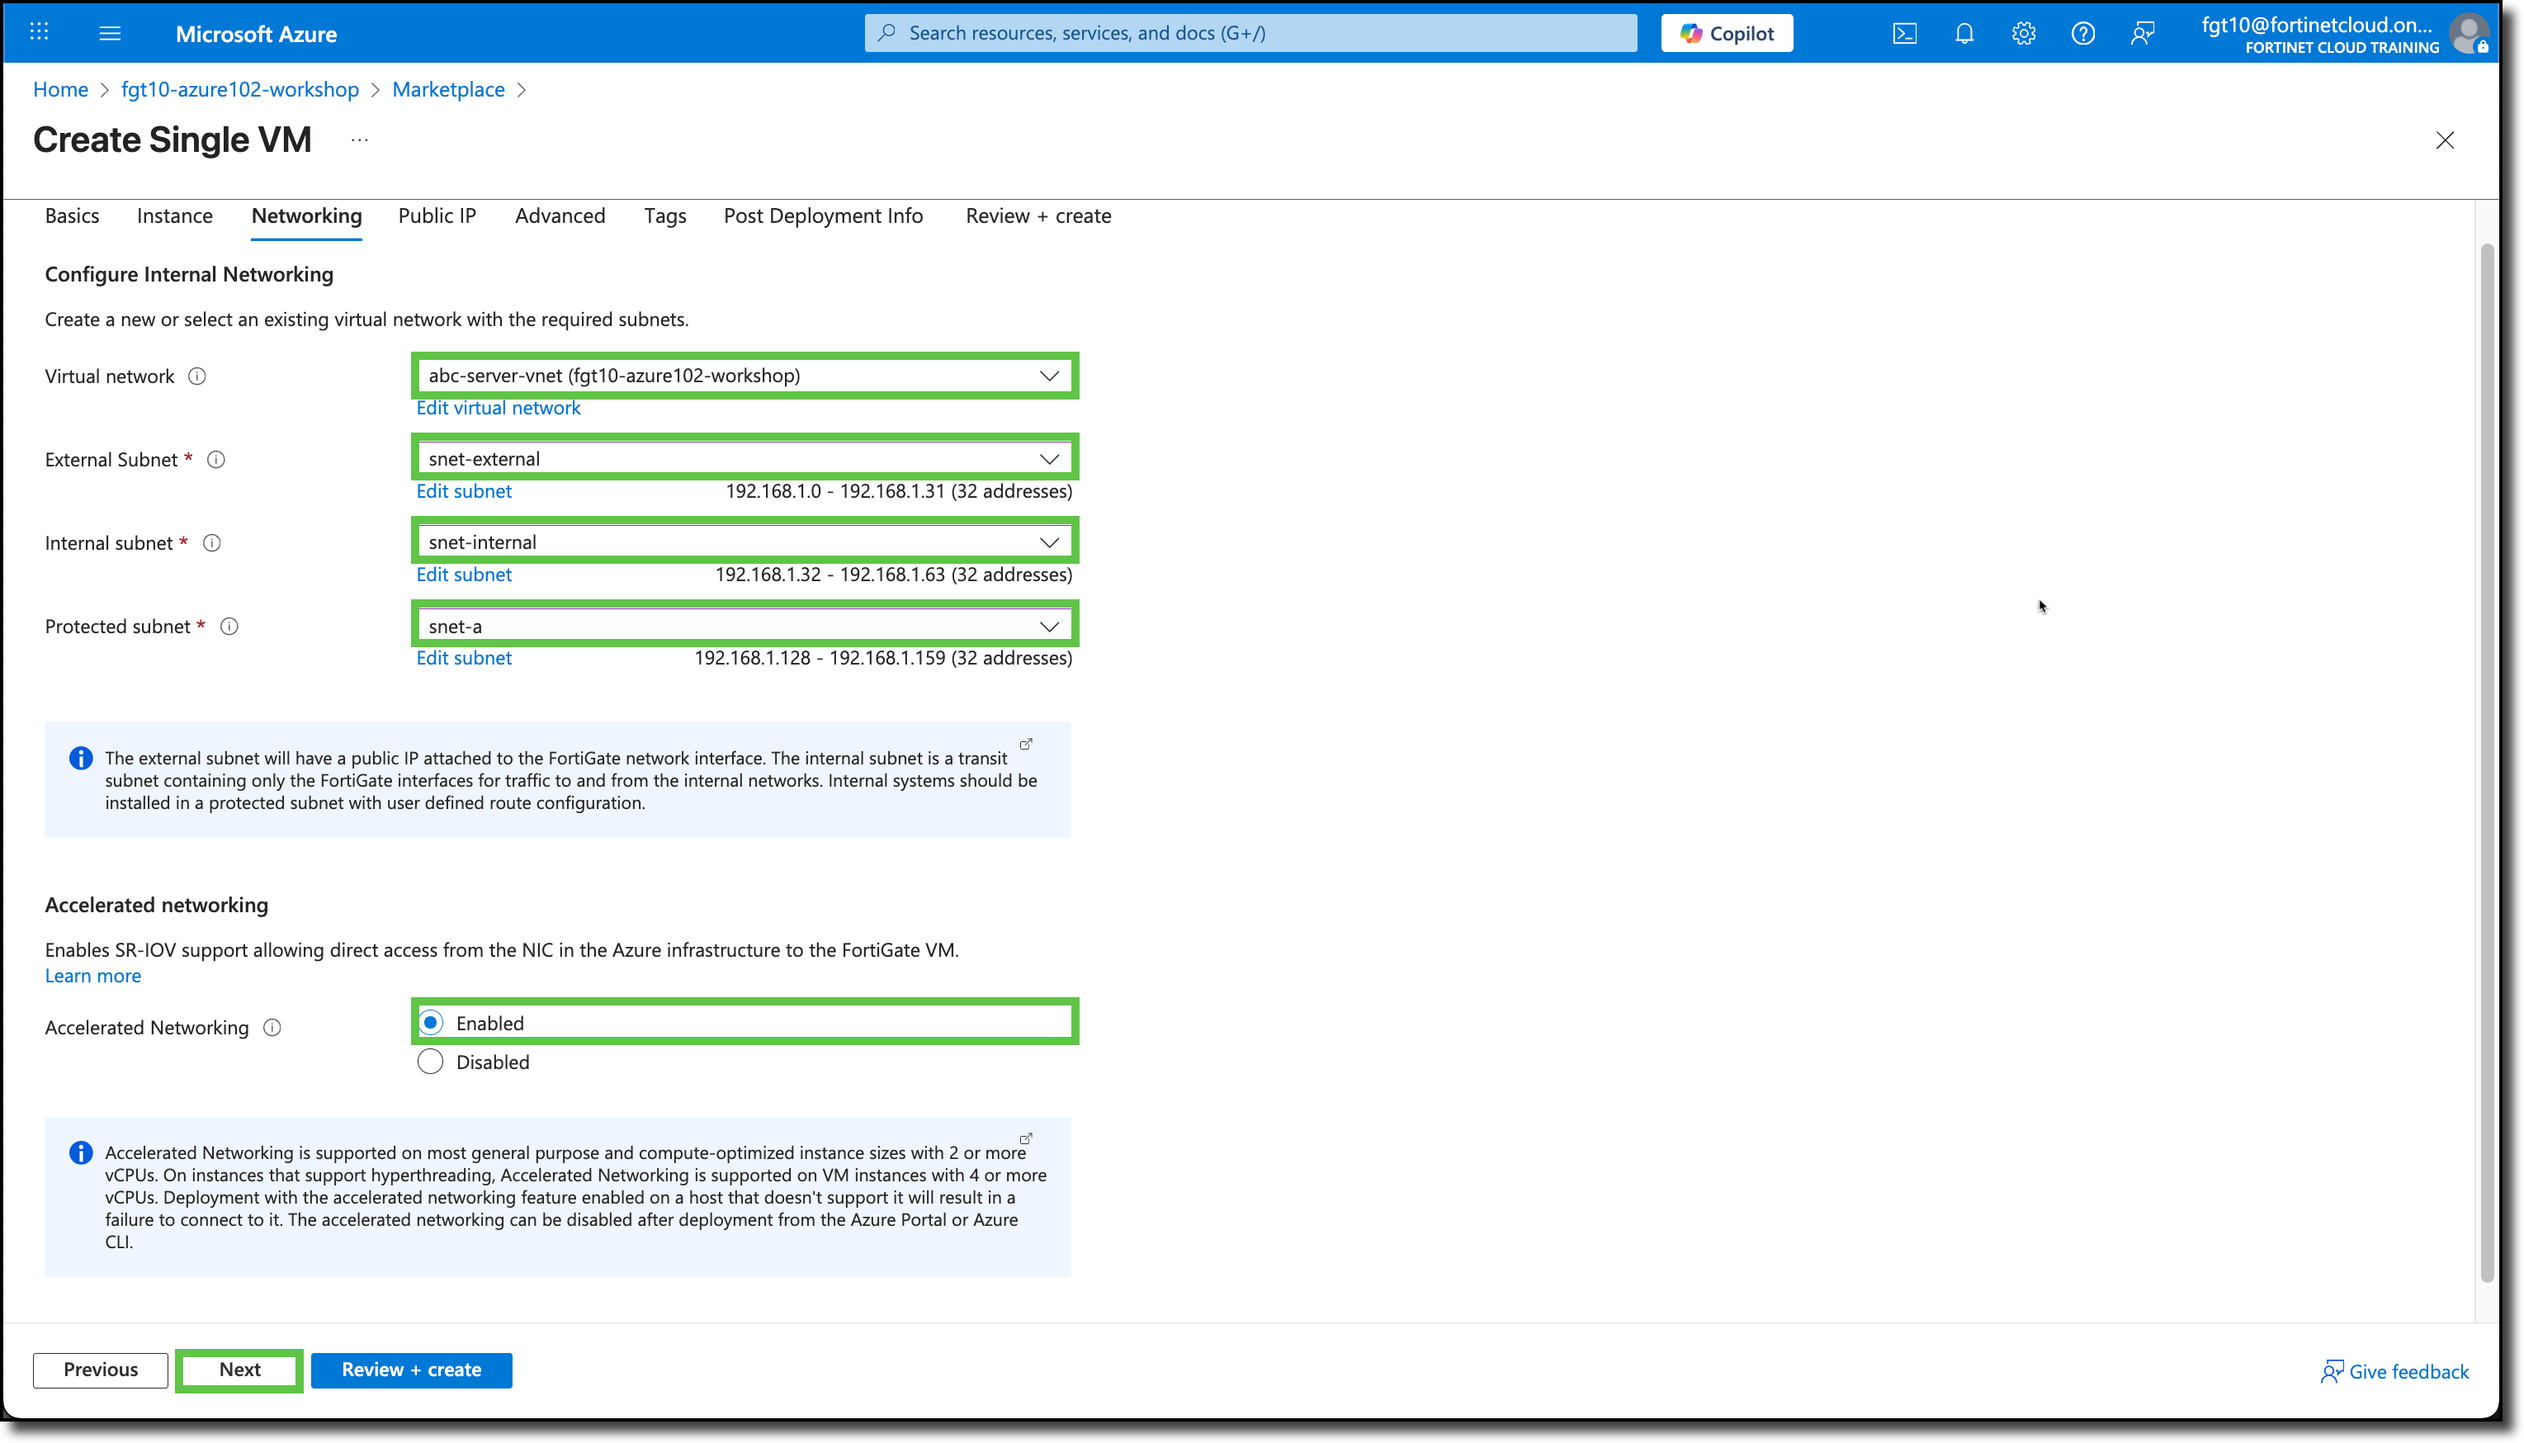
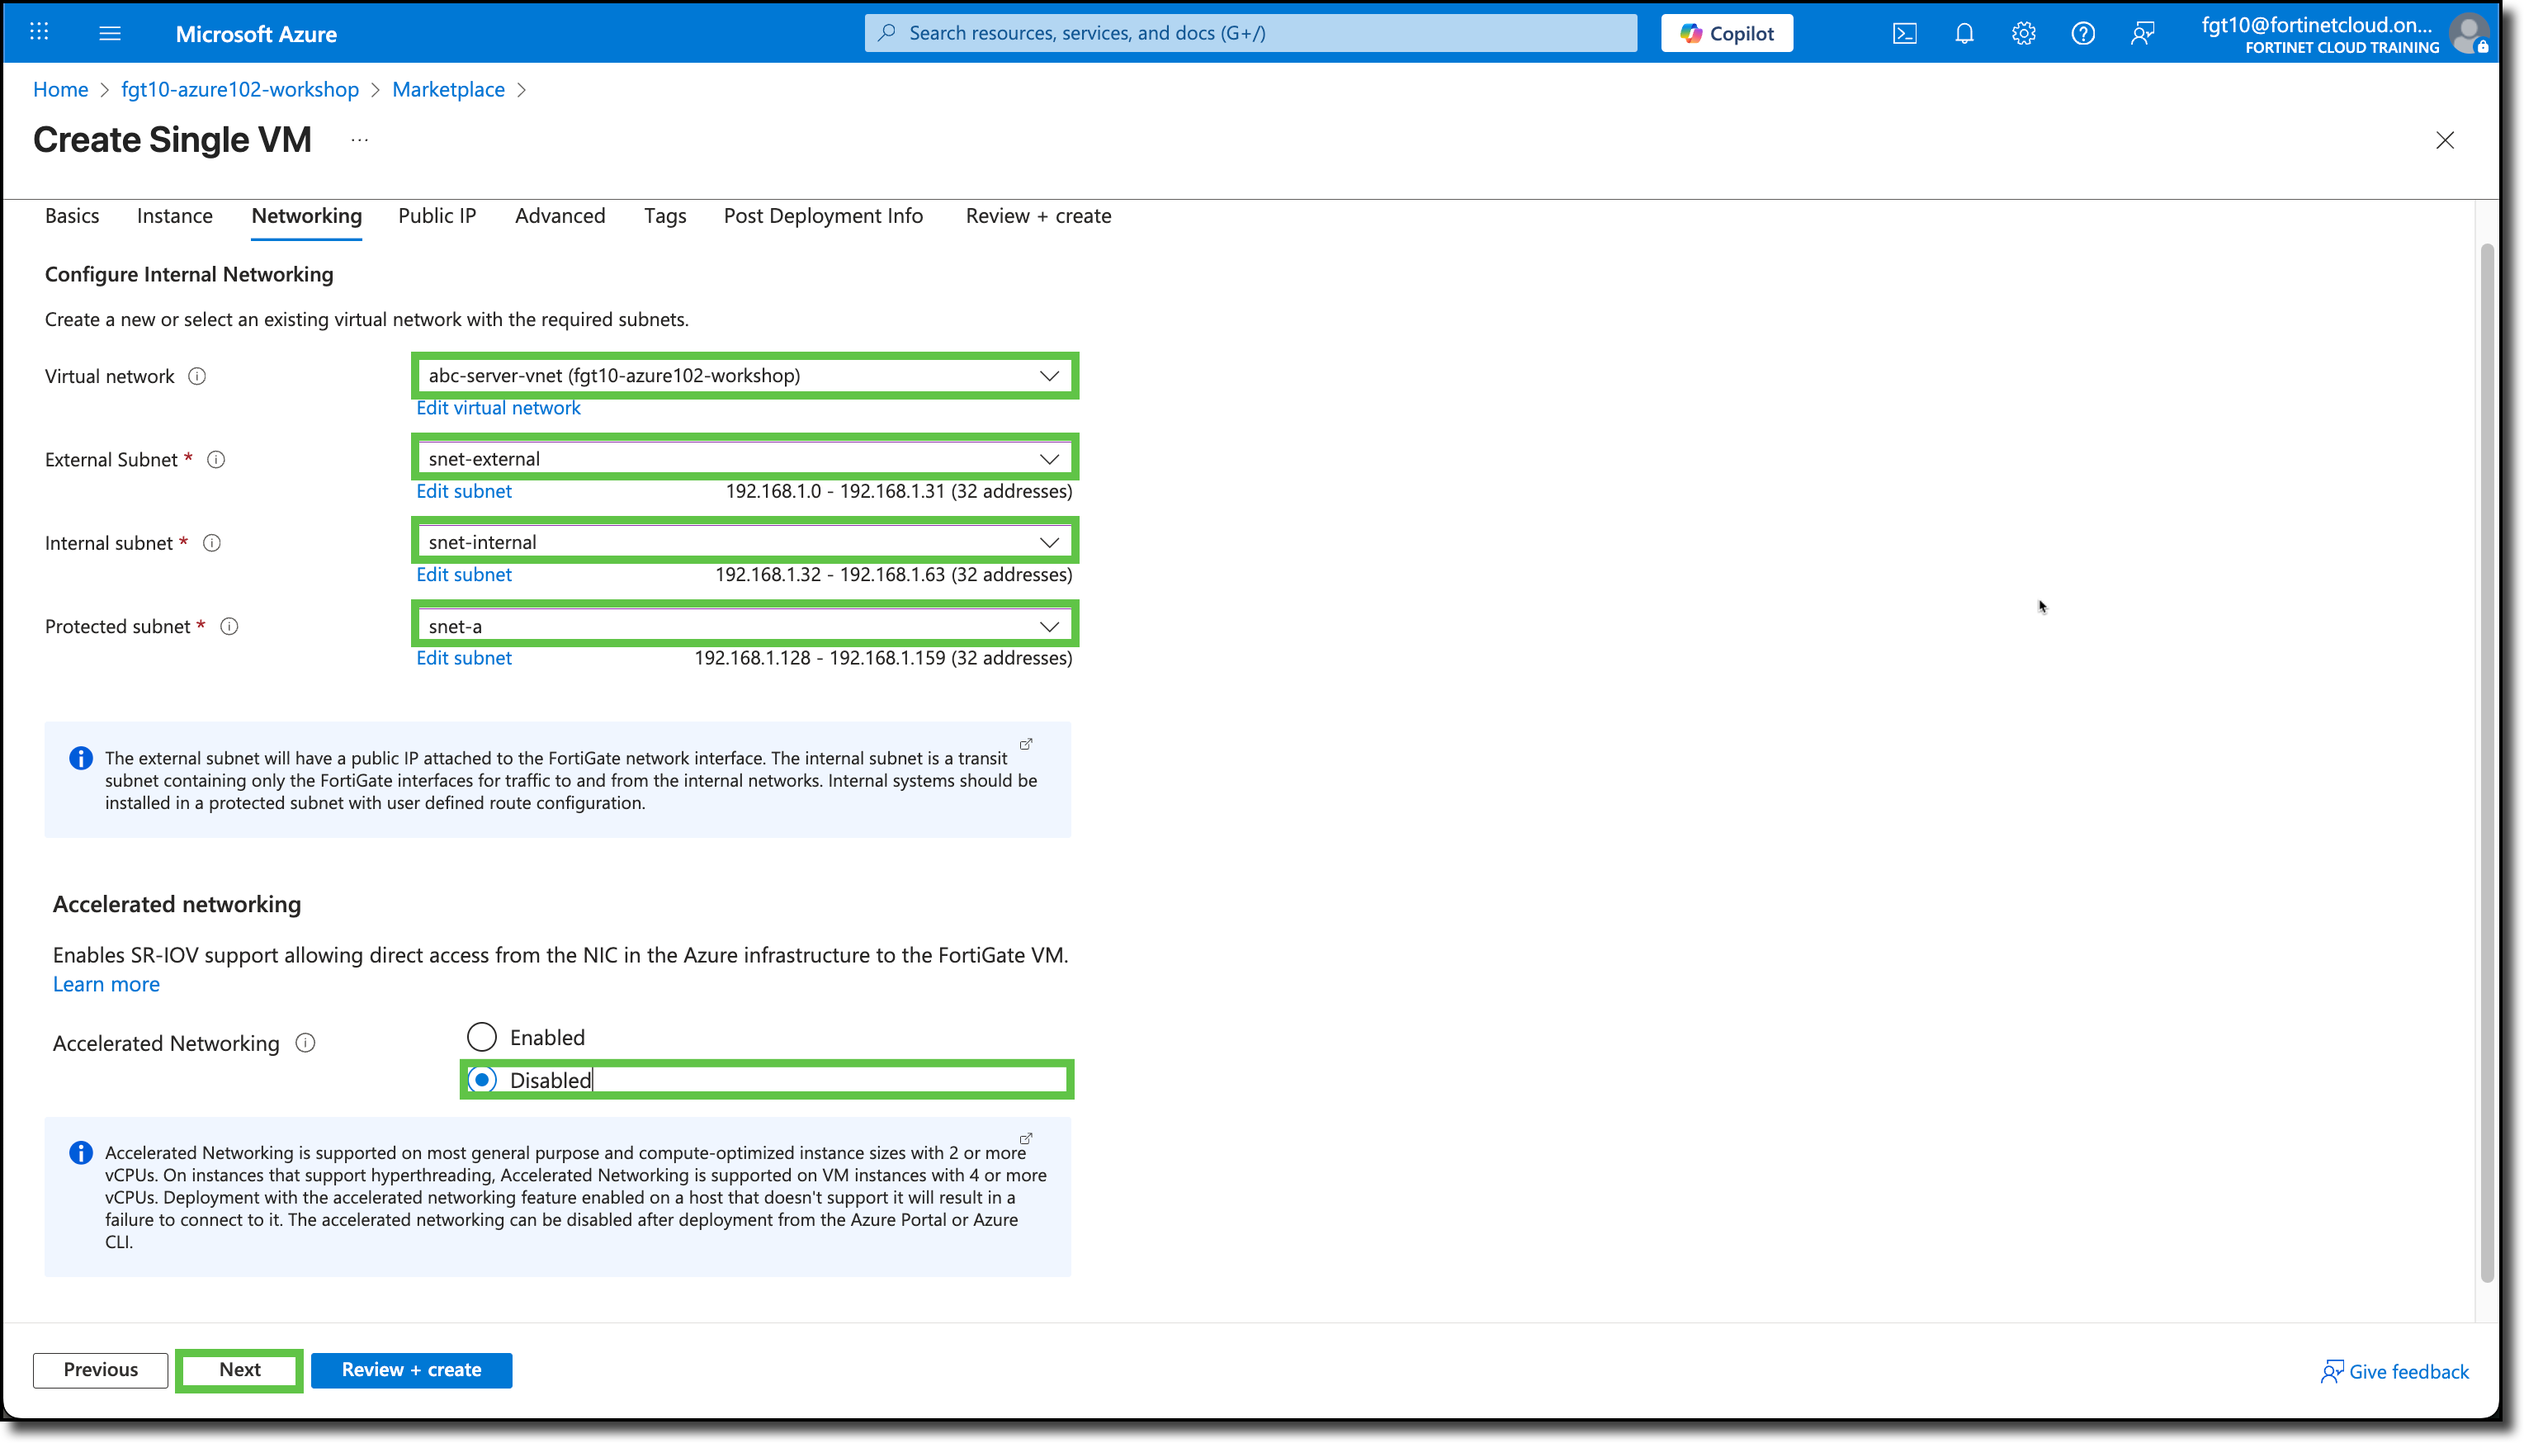
update rendering and disable accel networking

Changed region(s): [[0.0, 0.6178, 0.4349, 0.7723]]

diff --git a/content/4_Chapter-Four/4_3-identify-vm-services/_index.md b/content/4_Chapter-Four/4_3-identify-vm-services/_index.md
@@ -101,33 +101,33 @@ Configure **linux-b-vm** first
 
 Configure **linux-a-vm** second
 
-    {{% notice note %}}These commands are completed from the **linux-a-vm**{{% /notice %}}
+{{% notice note %}}These commands are completed from the **linux-a-vm**{{% /notice %}}
 
-    - Use `ping www.yahoo.com`
-      - confirms DNS and ICMP access to the Internet: (CTRL+c to stop ping)
-    - Use `wget www.fortinet.com`
-      - confirms port 80 access to the Internet:  (Confirm "200 OK" response)
-    - Use `curl https://ipinfo.io/ip && echo " linux-a-vm's PIP"`
-      - confirms port 443 access to the Internet
-      - confirms Public IP assigned to **linux-a-vm**: (***Verify*** against what the Azure portal listed in the Overview section for this VM)
+- Use `ping www.yahoo.com`
+  - confirms DNS and ICMP access to the Internet: (CTRL+c to stop ping)
+- Use `wget www.fortinet.com`
+  - confirms port 80 access to the Internet:  (Confirm "200 OK" response)
+- Use `curl https://ipinfo.io/ip && echo " linux-a-vm's PIP"`
+  - confirms port 443 access to the Internet
+  - confirms Public IP assigned to **linux-a-vm**: (***Verify*** against what the Azure portal listed in the Overview section for this VM)
 
-    - ***Check*** for and install Ubuntu updates
-        - `sudo apt update`
-        - `sudo apt -y upgrade`
-        - `clear` after updates have finished
+- ***Check*** for and install Ubuntu updates
+  - `sudo apt update`
+  - `sudo apt -y upgrade`
+  - `clear` after updates have finished
 
-    - ***Ping*** the private IP of **linux-b-vm**
-      - `ping 192.168.1.xxx` (Refer to previous steps for Private IP)
+- ***Ping*** the private IP of **linux-b-vm**
+  - `ping 192.168.1.xxx` (Refer to previous steps for Private IP)
 
-    - ***Install*** **NMAP** Scan open ports on **linux-b-vm**
-      - `sudo apt -y install nmap`
-      - `nmap -F 192.168.1.xxx` (Refer to previous steps for Private IP)
-      - ***Note*** the open port(s) on **linux-a-vm**
+- ***Install*** **NMAP** Scan open ports on **linux-b-vm**
+  - `sudo apt -y install nmap`
+  - `nmap -F 192.168.1.xxx` (Refer to previous steps for Private IP)
+  - ***Note*** the open port(s) on **linux-a-vm**
 
-    - ***Confirm*** SSH access to **linux-b-vm**:
-      - `ssh azureuser@192.168.1.xxx` (Refer to previous steps for Private IP)
-      - Use `sudo ss -ltn` to confirm the same open ports that NMAP reported
-      - Use `exit` to disconnect from **linux-b-vm**
+- ***Confirm*** SSH access to **linux-b-vm**:
+  - `ssh azureuser@192.168.1.xxx` (Refer to previous steps for Private IP)
+  - Use `sudo ss -ltn` to confirm the same open ports that NMAP reported
+  - Use `exit` to disconnect from **linux-b-vm**
 
 The following diagram is a representation of your current VNET and VM deployment.
 

diff --git a/content/5_Chapter-Five/5_1-deploy-fgt/_index.md b/content/5_Chapter-Five/5_1-deploy-fgt/_index.md
@@ -77,7 +77,7 @@ Use these screen shots for reference
     - External Subnet:  **snet-external**
     - Internal subnet:  **snet-internal**
     - Protected subnet: **snet-a**
-    - Accelerated Networking:  **Enabled**
+    - Accelerated Networking:  **Disabled**
 
     {{% notice note %}}snet-b will be protected as well, the template just does not have a selection for it.{{% /notice %}}
 

diff --git a/content/4_Chapter-Four/4_2-deploy-linux-vm/_index.md b/content/4_Chapter-Four/4_2-deploy-linux-vm/_index.md
@@ -107,7 +107,7 @@ Now that a **VNET** is configured, Task 2 will cover
 
     {{< figure src="azure-creating-linux-vm-14.png" alt="azure-creating-linux-vm-14" >}}
 
-#### Steps to create linux-b-vm
+## Steps to create linux-b-vm
 
 1. Follow the same steps to create the **linux-b-vm**. You will need to alter the following where appropriate:
 
